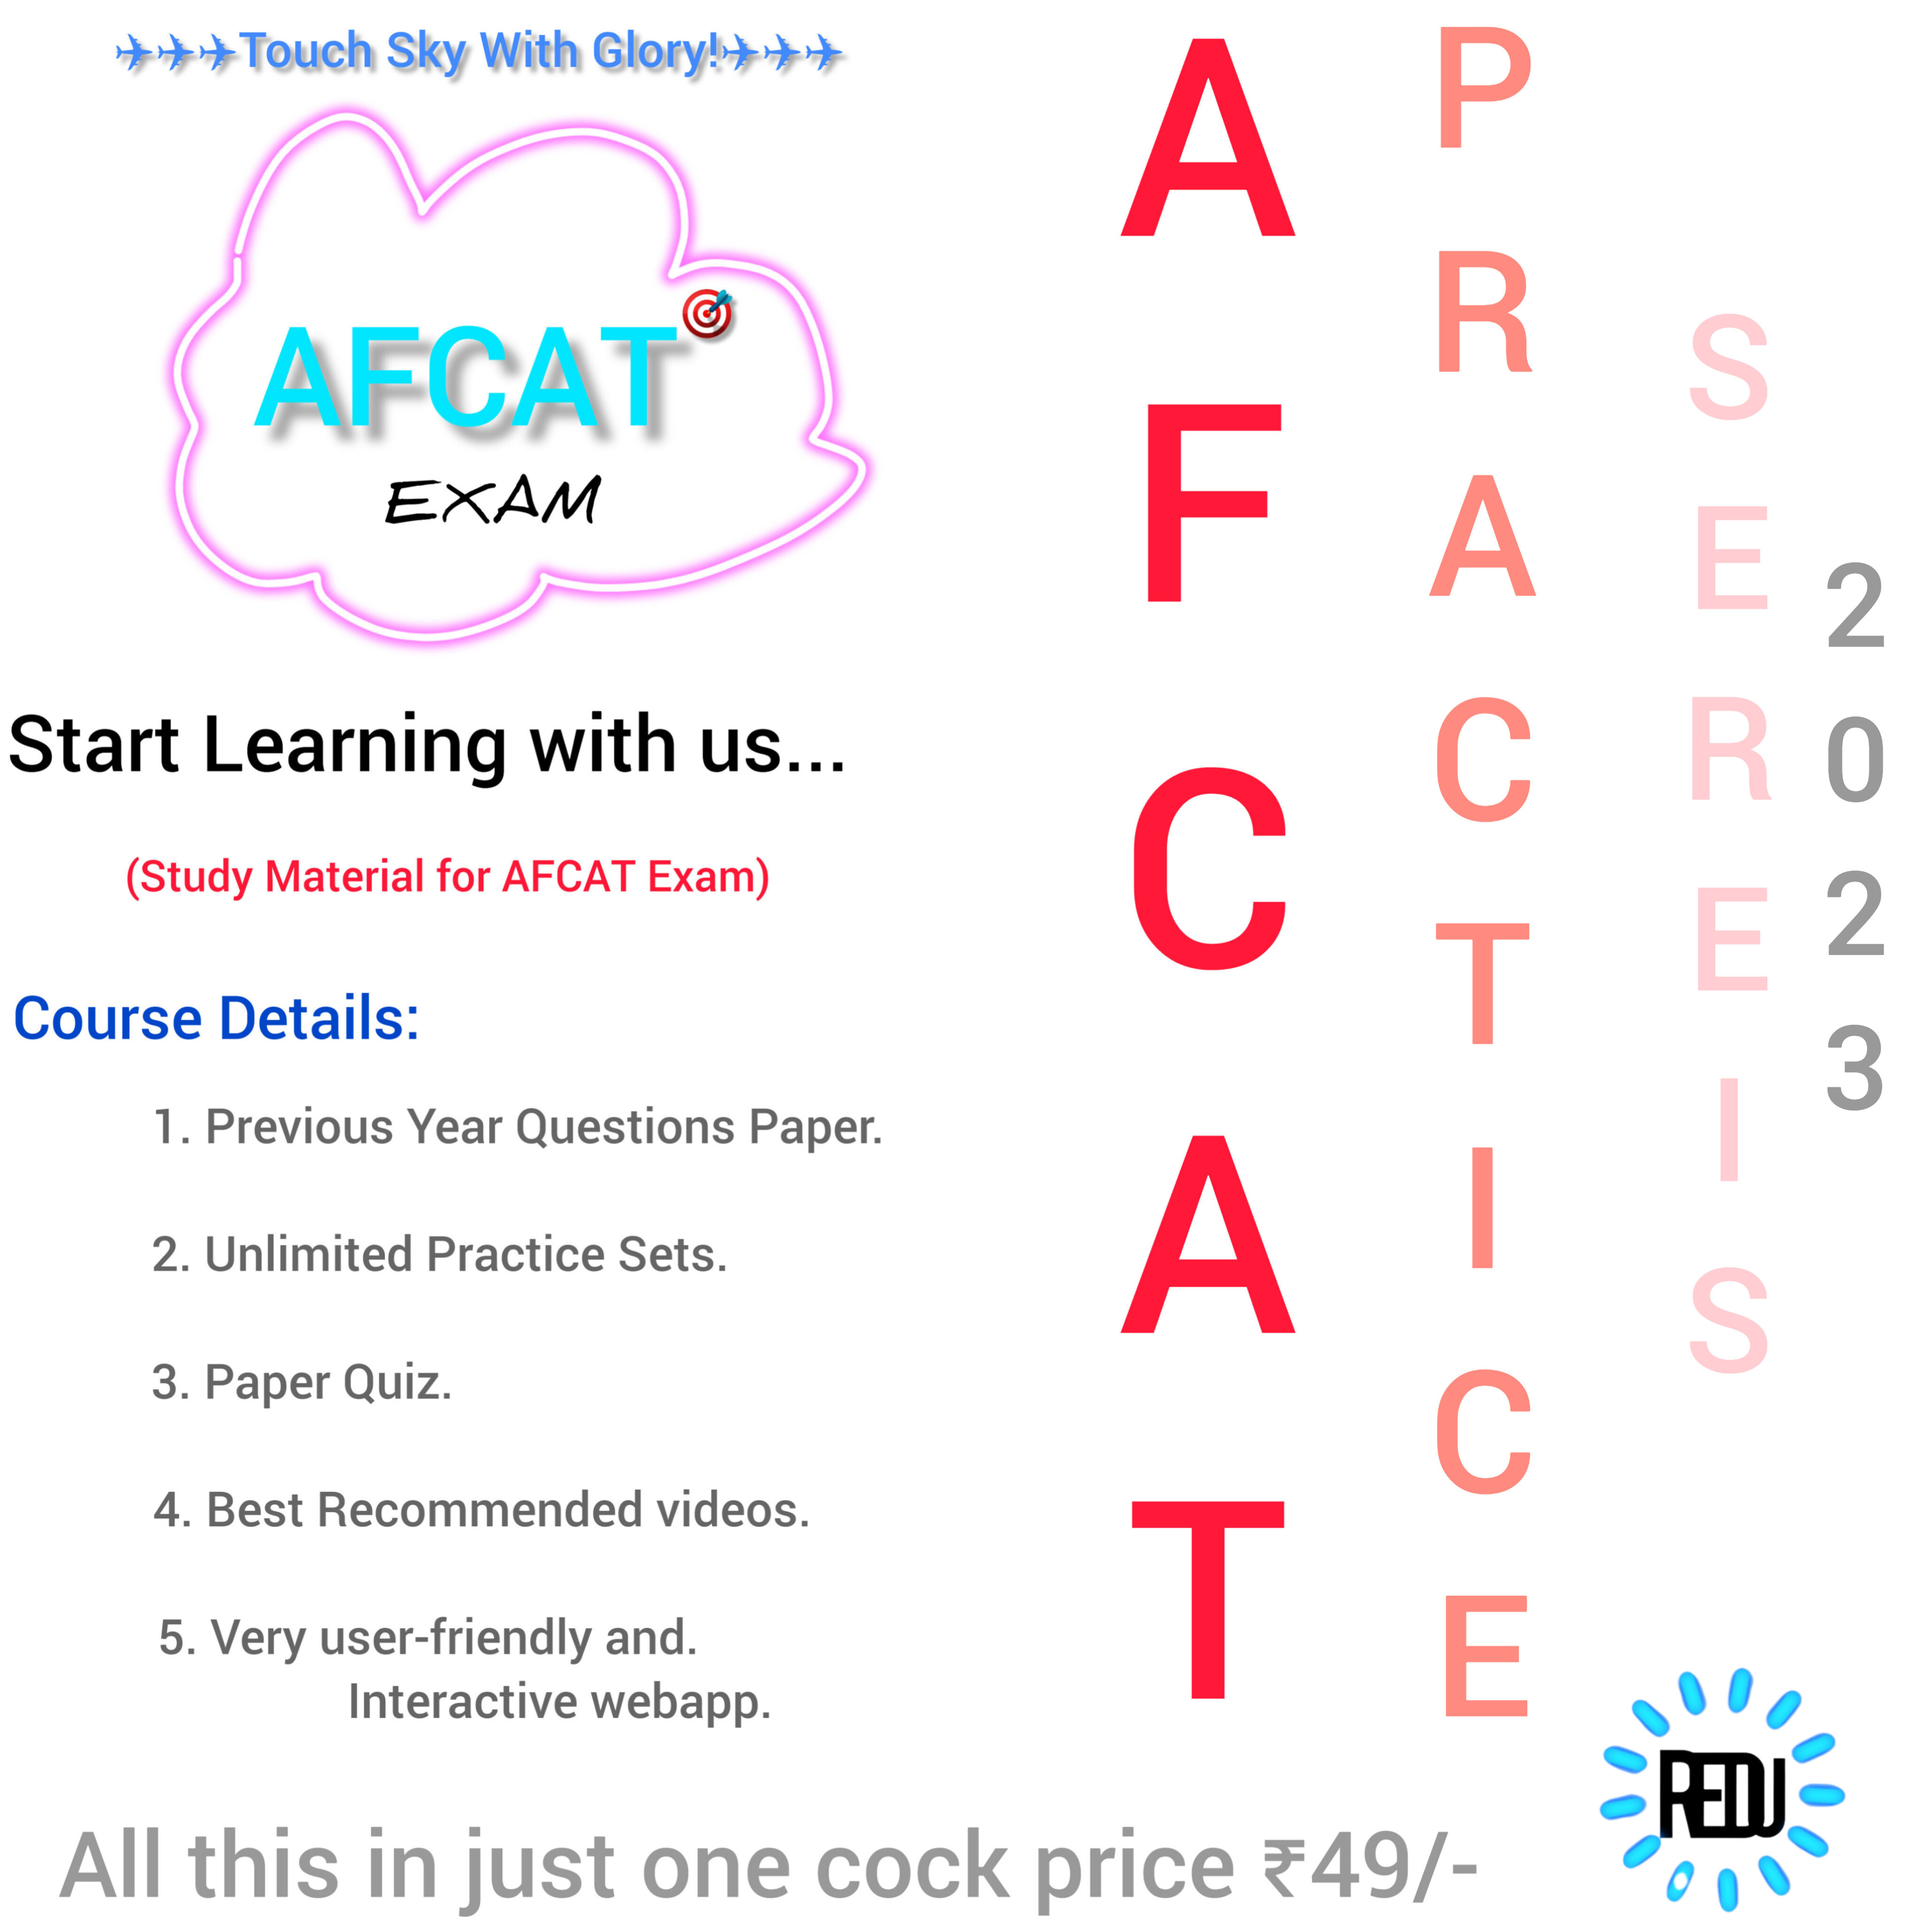
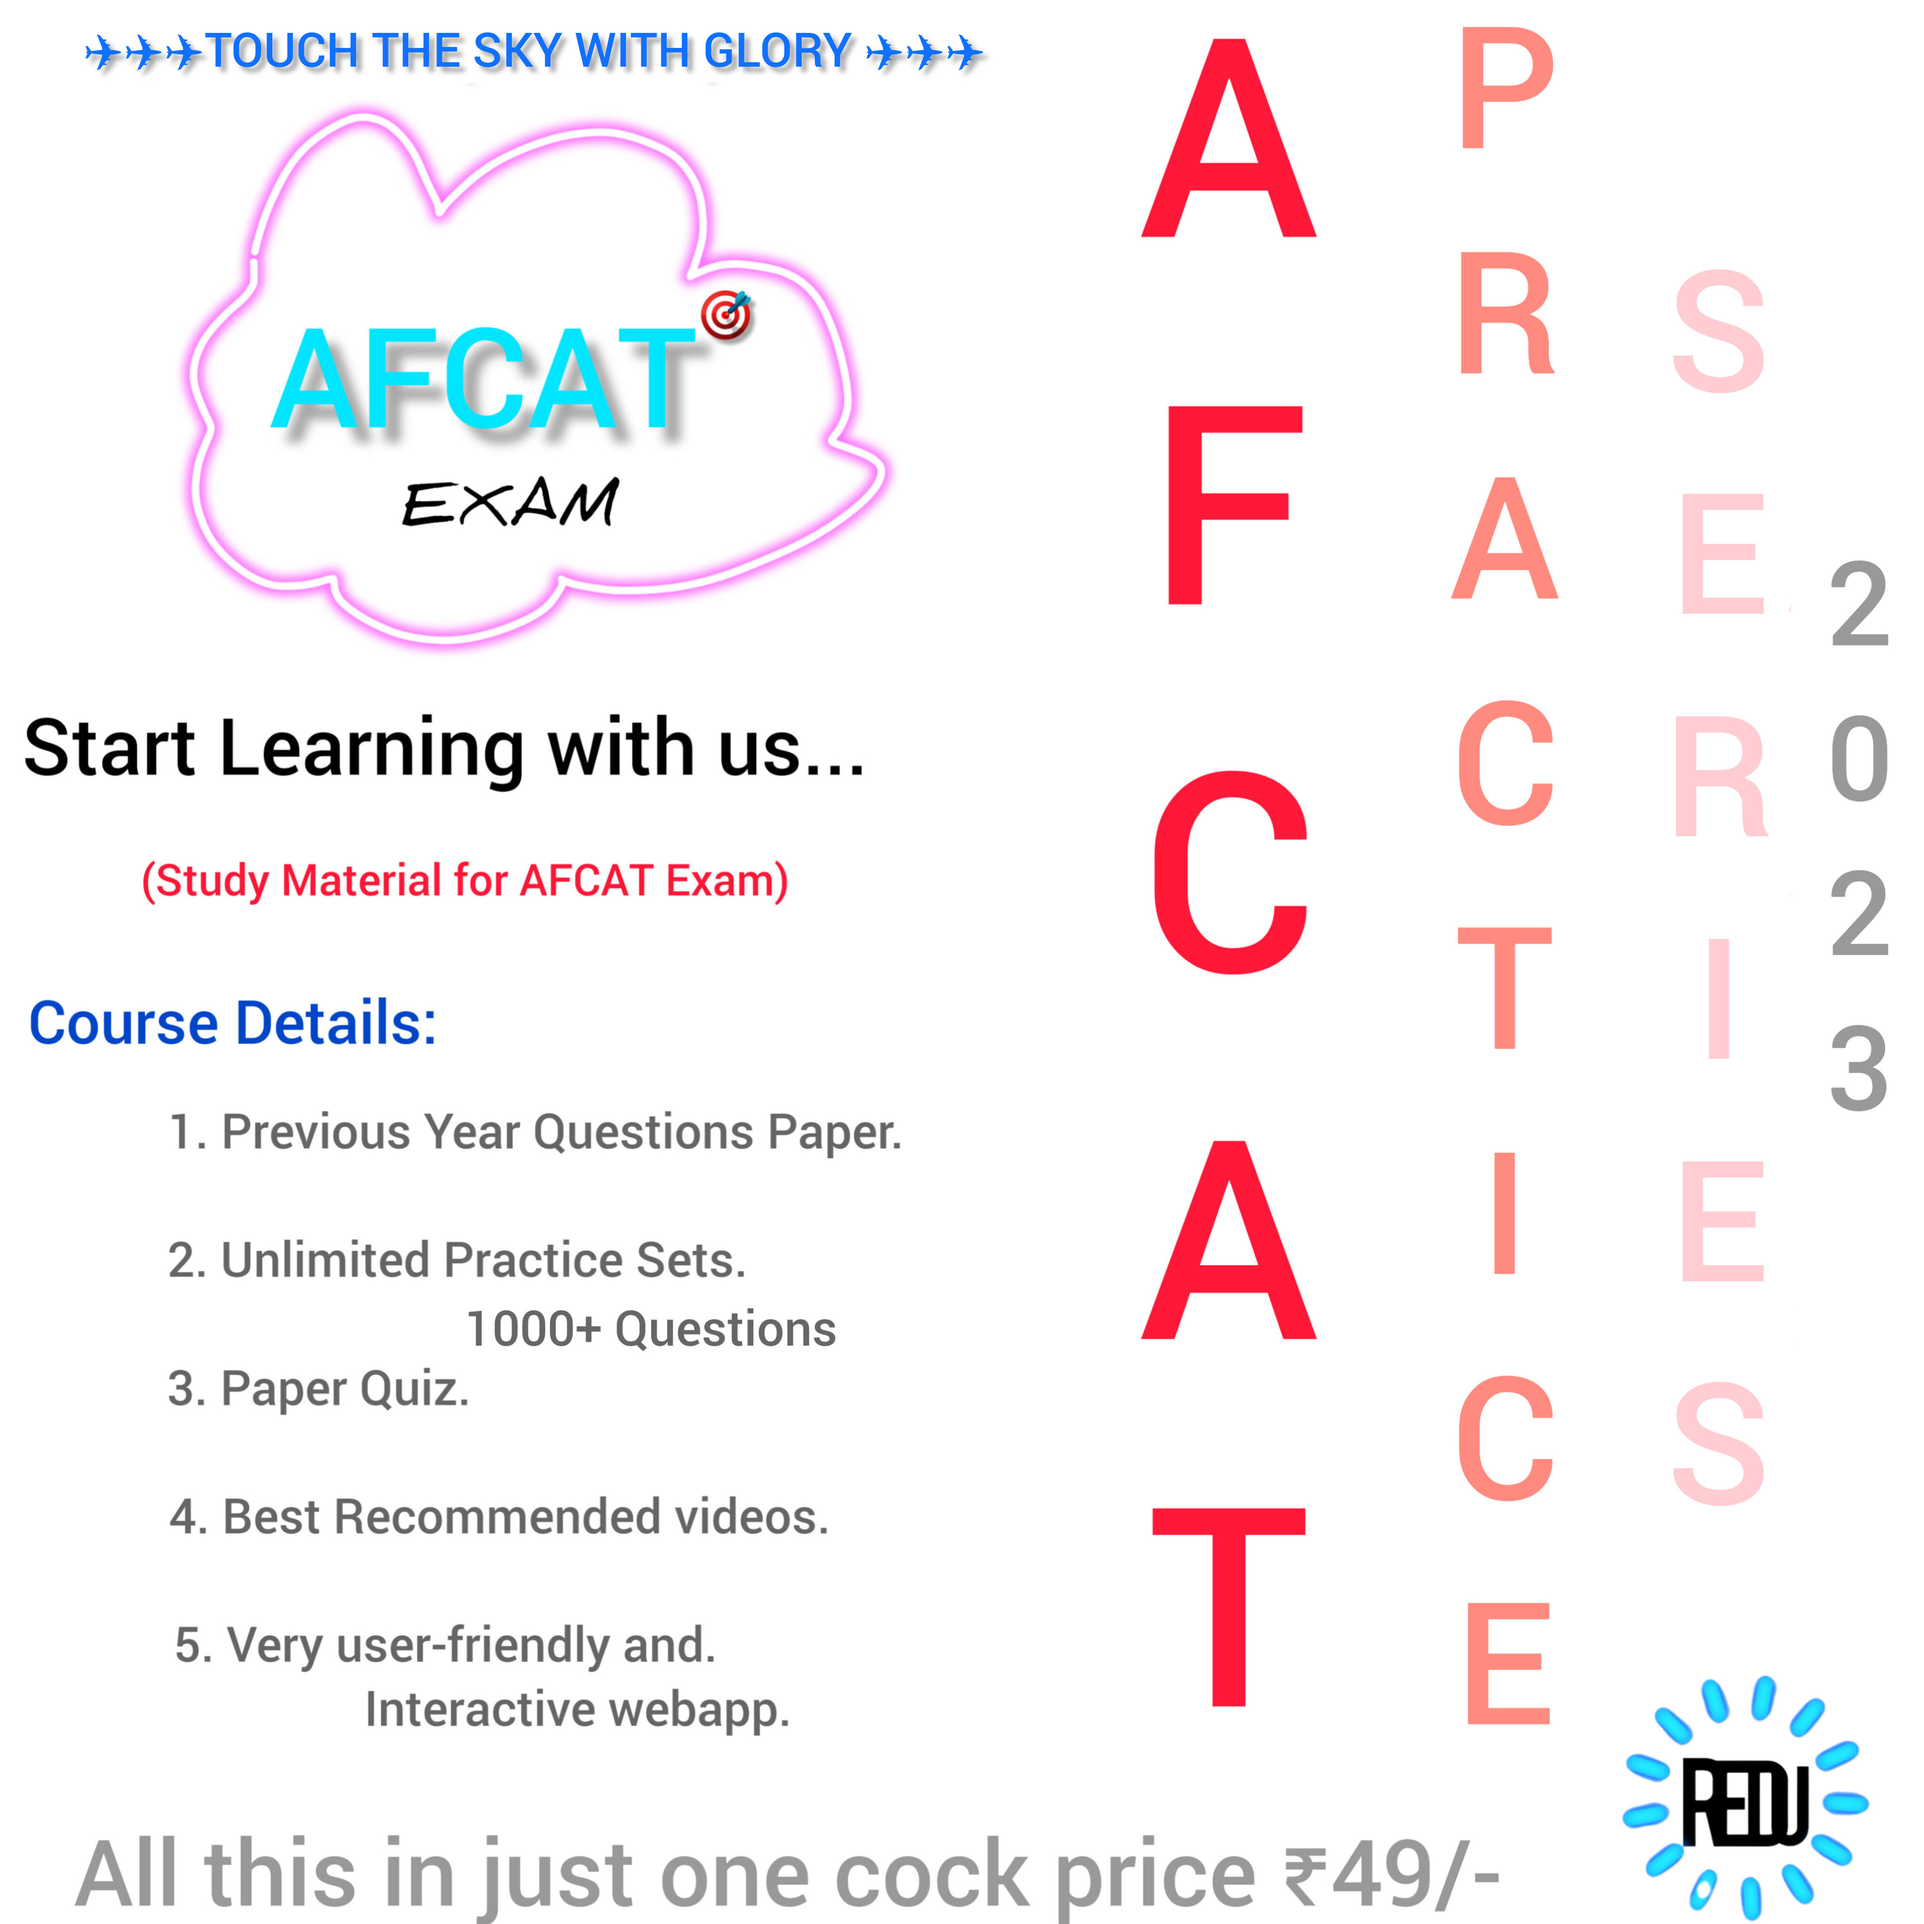
NEW CHANGE

diff --git a/Apyq.html b/Apyq.html
@@ -24,7 +24,7 @@
     <title>Real Education</title>
   <link rel="stylesheet" href="sub1.css">
 <body>
-  <center><strong>  <a href="index.html" style="text-decoration:none" class="first"> ✈✈✈TOUCH SKY WITH GLORY✈✈✈ </a></strong></center>
+  <center><strong>  <a href="index.html" style="text-decoration:none" class="first"> ✈✈✈TOUCH THE SKY WITH GLORY✈✈✈ </a></strong></center>
     <nav style="border: 5px solid white;" class="navbar navbar-expand-xs bg-dark navbar-dark">
       <div class="container-fluid">
         <a style="border:1px solid white;padding: 1px;background-color: brown;"  class="navbar-brand" href="index.html">Real Education</a>

diff --git a/2019-1.html b/2019-1.html
@@ -17,7 +17,7 @@
     <title>Real Education</title>
   <link rel="stylesheet" href="sub1.css">
 <body>
-  <center><strong>  <a href="index.html" style="text-decoration:none" class="first"> ✈✈✈TOUCH SKY WITH GLORY✈✈✈ </a></strong></center>
+  <center><strong>  <a href="index.html" style="text-decoration:none" class="first"> ✈✈✈TOUCH THE SKY WITH GLORY✈✈✈ </a></strong></center>
 
 <!--     <a href="index.html" style="text-decoration:none"> <img src="redu.png" class="first" > </a> -->
     <nav style="border: 5px solid white;" class="navbar navbar-expand-xs bg-dark navbar-dark">

diff --git a/2020-1.html b/2020-1.html
@@ -17,7 +17,7 @@
     <title>Real Education</title>
   <link rel="stylesheet" href="sub1.css">
 <body>
-  <center><strong>  <a href="index.html" style="text-decoration:none" class="first"> ✈✈✈TOUCH SKY WITH GLORY✈✈✈ </a></strong></center>
+  <center><strong>  <a href="index.html" style="text-decoration:none" class="first"> ✈✈✈TOUCH THE SKY WITH GLORY✈✈✈ </a></strong></center>
 
  <!--    <a href="index.html" style="text-decoration:none"> <img src="redu.png" class="first" > </a> -->
     <nav style="border: 5px solid white;" class="navbar navbar-expand-xs bg-dark navbar-dark">

diff --git a/2021-1.html b/2021-1.html
@@ -18,7 +18,7 @@
   <link rel="stylesheet" href="sub1.css">
 <body>
 
-  <center><strong>  <a href="index.html" style="text-decoration:none" class="first"> ✈✈✈TOUCH SKY WITH GLORY✈✈✈ </a></strong></center>
+  <center><strong>  <a href="index.html" style="text-decoration:none" class="first"> ✈✈✈TOUCH THE SKY WITH GLORY✈✈✈ </a></strong></center>
 
 <!--     <a href="index.html" style="text-decoration:none"> <img src="redu.png" class="first" > </a> -->
     <nav style="border: 5px solid white;" class="navbar navbar-expand-xs bg-dark navbar-dark">

diff --git a/2022-1.html b/2022-1.html
@@ -18,7 +18,7 @@
   <link rel="stylesheet" href="sub1.css">
 <body>
 
-  <center><strong>  <a href="index.html" style="text-decoration:none" class="first"> ✈✈✈TOUCH SKY WITH GLORY✈✈✈ </a></strong></center>
+  <center><strong>  <a href="index.html" style="text-decoration:none" class="first"> ✈✈✈TOUCH THE SKY WITH GLORY✈✈✈ </a></strong></center>
 
  <!--    <a href="index.html" style="text-decoration:none"> <img src="redu.png" class="first" > </a> -->
     <nav style="border: 5px solid white;" class="navbar navbar-expand-xs bg-dark navbar-dark">

diff --git a/2023-1.html b/2023-1.html
@@ -18,7 +18,7 @@
   <link rel="stylesheet" href="sub1.css">
 <body>
 
-  <center><strong>  <a href="index.html" style="text-decoration:none" class="first"> ✈✈✈TOUCH SKY WITH GLORY✈✈✈ </a></strong></center>
+  <center><strong>  <a href="index.html" style="text-decoration:none" class="first"> ✈✈✈TOUCH THE SKY WITH GLORY✈✈✈ </a></strong></center>
 
    <!--  <a href="index.html" style="text-decoration:none"> <img src="redu.png" class="first" > </a> -->
     <nav style="border: 5px solid white;" class="navbar navbar-expand-xs bg-dark navbar-dark">

diff --git a/Apractice.html b/Apractice.html
@@ -22,7 +22,7 @@
   </style>
 
 <body>
-  <center><strong>  <a href="index.html" style="text-decoration:none" class="first"> ✈✈✈TOUCH SKY WITH GLORY✈✈✈ </a></strong></center>
+  <center><strong>  <a href="index.html" style="text-decoration:none" class="first"> ✈✈✈TOUCH THE SKY WITH GLORY✈✈✈ </a></strong></center>
 
     <!-- <a href="index.html" style="text-decoration:none"> <img src="redu.png" class="first" > </a> -->
     <nav style="border: 5px solid white;" class="navbar navbar-expand-xs bg-dark navbar-dark">

diff --git a/2017-1.html b/2017-1.html
@@ -17,7 +17,7 @@
     <title>Real Education</title>
   <link rel="stylesheet" href="sub1.css">
 <body>
-  <center><strong>  <a href="index.html" style="text-decoration:none" class="first"> ✈✈✈TOUCH SKY WITH GLORY✈✈✈ </a></strong></center>
+  <center><strong>  <a href="index.html" style="text-decoration:none" class="first"> ✈✈✈TOUCH THE SKY WITH GLORY✈✈✈ </a></strong></center>
 
     <nav style="border: 5px solid white;" class="navbar navbar-expand-xs bg-dark navbar-dark">
       <div class="container-fluid">

diff --git a/2018-1.html b/2018-1.html
@@ -17,7 +17,7 @@
     <title>Real Education</title>
   <link rel="stylesheet" href="sub1.css">
 <body>
-  <center><strong>  <a href="index.html" style="text-decoration:none" class="first"> ✈✈✈TOUCH SKY WITH GLORY✈✈✈ </a></strong></center>
+  <center><strong>  <a href="index.html" style="text-decoration:none" class="first"> ✈✈✈TOUCH THE SKY WITH GLORY✈✈✈ </a></strong></center>
 
     <nav style="border: 5px solid white;" class="navbar navbar-expand-xs bg-dark navbar-dark">
       <div class="container-fluid">

diff --git a/Aquiz.html b/Aquiz.html
@@ -17,7 +17,7 @@
     <title>Real Education</title>
   <link rel="stylesheet" href="sub1.css">
 <body>
-  <center><strong>  <a href="index.html" style="text-decoration:none" class="first"> ✈✈✈TOUCH SKY WITH GLORY✈✈✈ </a></strong></center>
+  <center><strong>  <a href="index.html" style="text-decoration:none" class="first"> ✈✈✈TOUCH THE SKY WITH GLORY✈✈✈ </a></strong></center>
 
 
    <!--  <a href="index.html" style="text-decoration:none"> <img src="redu.png" class="first" > </a> -->

diff --git a/index.html b/index.html
@@ -15,7 +15,7 @@
 </head>
 <body>
 
-  <center><strong>  <a href="index.html" style="text-decoration:none" class="first"> ✈✈✈TOUCH SKY WITH GLORY✈✈✈ </a></strong></center>
+  <center><strong>  <a href="index.html" style="text-decoration:none" class="first"> ✈✈✈TOUCH THE SKY WITH GLORY✈✈✈ </a></strong></center>
 
   <nav style="border: 5px solid white;" class="navbar navbar-expand-xs bg-dark navbar-dark">
     <div class="container-fluid">

diff --git a/Aothers.html b/Aothers.html
@@ -78,7 +78,7 @@
     }
     </style>
 <body>
-  <center><strong>  <a href="index.html" style="text-decoration:none" class="first"> ✈✈✈TOUCH SKY WITH GLORY✈✈✈ </a></strong></center>
+  <center><strong>  <a href="index.html" style="text-decoration:none" class="first"> ✈✈✈TOUCH THE SKY WITH GLORY✈✈✈ </a></strong></center>
 
 
 <!--     <a href="index.html" style="text-decoration:none"> <img src="redu.png" class="first" > </a> -->
